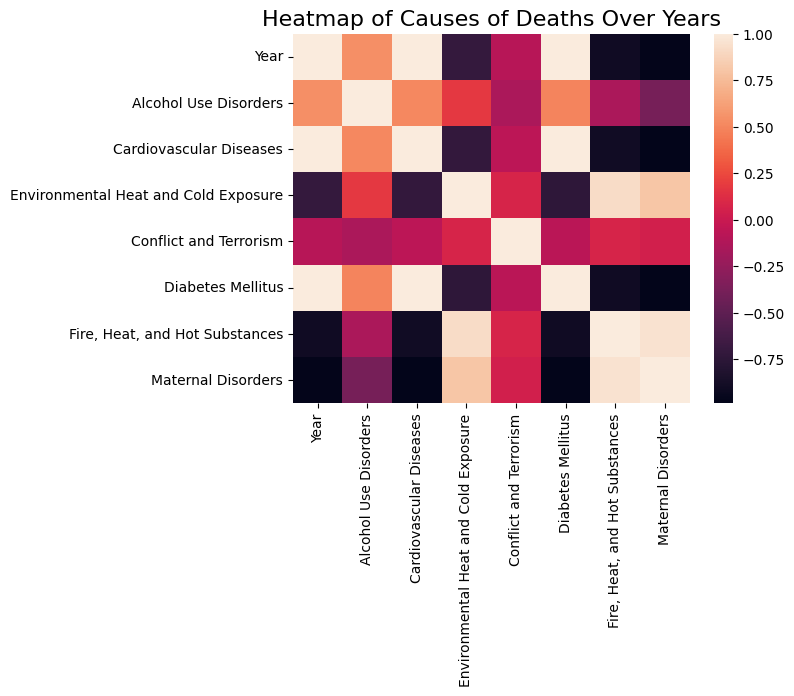
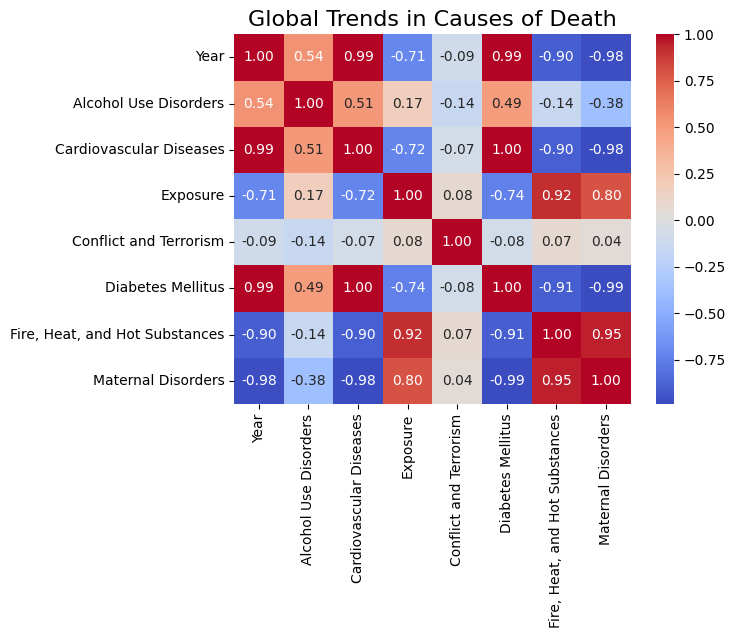
Update graphs for consistency

diff --git a/analyses/egg_demoindex.py b/analyses/egg_demoindex.py
@@ -1,6 +1,8 @@
 import pandas as pd
 import matplotlib.pyplot as plt
 from datetime import datetime
+import matplotlib.ticker as ticker
+
 
 print("Running pandas version", pd.__version__)
 print(datetime.now())
@@ -40,20 +42,28 @@ print(eggs_dem.head())
 fig, ax1 = plt.subplots()
 
 # Plot 'price' on the primary y-axis
-ax1.plot(eggs_dem['year'], eggs_dem['price'], color='blue', marker='o', label='Price')
-ax1.set_xlabel('Year')
-ax1.set_ylabel('Price', color='blue')
-ax1.tick_params(axis='y', labelcolor='blue')
+ax1.plot(eggs_dem['year'], eggs_dem['price'], color='blue', marker='o', label='Price (USD)')
+ax1.set_xlabel('Time (years)')
+ax1.set_ylabel('Egg Price (USD)', color='black')
+ax1.tick_params(axis='y', labelcolor='black')
 
 # Create a twin y-axis for 'Democracy score'
 ax2 = ax1.twinx()
-ax2.plot(eggs_dem['year'], eggs_dem['score'], color='green', marker='x', label='Democracy Score')
-ax2.set_ylabel('Score', color='green')
-ax2.tick_params(axis='y', labelcolor='green')
+ax2.plot(eggs_dem['year'], eggs_dem['score'], color='orange', marker='x', label='Democracy Index')
+ax2.set_ylabel('Democracy Index', color='black')
+ax2.tick_params(axis='y', labelcolor='black')
 
 # Add a title and layout adjustment
-plt.title('Price and Democracy Score by Year')
+plt.title('Egg Price vs Democracy Index (US) over Time')
 fig.tight_layout()  # Adjust layout to prevent overlap
+
+lines1, labels1 = ax1.get_legend_handles_labels()
+lines2, labels2 = ax2.get_legend_handles_labels()
+plt.legend(lines1 + lines2, labels1 + labels2, loc='upper left')
+
+ax1.xaxis.set_major_locator(ticker.MaxNLocator(integer=True))
+
+
 plt.savefig("./graphs/eggPrice_demoindex.png")
 
 print(eggs_dem.corr())

diff --git a/analyses/maternal_diabetes_alcohol_cardio.py b/analyses/maternal_diabetes_alcohol_cardio.py
@@ -23,6 +23,10 @@ cardio_normalized = scaler.fit_transform(cardio.values.reshape(-1, 1)).flatten()
 diabetes_normalized = scaler.fit_transform(diabetes.values.reshape(-1, 1)).flatten()
 maternal_normalized = scaler.fit_transform(maternal.values.reshape(-1, 1)).flatten()
 
+print(alcohol_normalized[:10])
+
+
+
 
 plt.scatter(years, alcohol_normalized, label="alcohol related deaths")
 plt.scatter(years, cardio_normalized, label="cardiovascular disease deaths")
@@ -31,8 +35,11 @@ plt.legend()
 plt.savefig('graphs/alcohol_cardio_year.png')
 plt.clf()
 
-plt.scatter(years, maternal_normalized, label="maternal deaths")
-plt.scatter(years, diabetes_normalized, label="diabetes deaths")
+plt.plot(years, maternal_normalized, label="maternal deaths", color='blue', marker='o')
+plt.plot(years, diabetes_normalized, label="diabetes dea_ths", color='orange', marker='x')
+plt.title("Deaths by Diabetes and Maternal Disorders over Time - Normalized")
+plt.xlabel("Time (years)")
+plt.ylabel("Scaled Deaths")
 plt.legend()
 plt.savefig('graphs/maternal_diabetes_year.png')
 plt.clf()
@@ -41,8 +48,9 @@ plt.scatter(maternal_normalized, diabetes_normalized)
 plt.savefig('graphs/maternal_diabetes.png')
 plt.clf()
 
-sns.heatmap(df.corr())
-plt.title("Heatmap of Causes of Deaths Over Years", fontsize=16)
+df = df.rename(columns={'Environmental Heat and Cold Exposure': 'Exposure'})
+sns.heatmap(df.corr(), annot=True, fmt='0.2f', cmap='coolwarm')
+plt.title("Global Trends in Causes of Death", fontsize=16)
 plt.savefig('graphs/cause_of_death_heatmap.png', bbox_inches='tight')
 plt.clf()
 

diff --git a/analyses/alcohol_schooling.py b/analyses/alcohol_schooling.py
@@ -23,6 +23,8 @@ coeffs_schooling = np.polyfit(log_gdp, df['Schooling'], 2)
 best_fit_alcohol = np.polyval(coeffs_alcohol, log_gdp)
 best_fit_schooling = np.polyval(coeffs_schooling, log_gdp)
 
+print(df[['GDP_per_capita', 'Schooling', 'Alcohol_consumption']].corr())
+
 
 # Alcohol consumption vs schooling
 plt.scatter(df['GDP_per_capita'], df['Alcohol_consumption'], color='blue', label="Alcohol Comsumption", alpha=0.5)
@@ -32,7 +34,7 @@ plt.plot(df['GDP_per_capita'], best_fit_schooling, color='orange', linestyle='da
 
 plt.xscale('log')
 plt.xlabel('GDP per capita')
-
+plt.ylabel('Score')
 plt.title('Schooling vs Alcohol Consumption over GDP per Capita')
 
 plt.legend()
@@ -41,7 +43,7 @@ plt.savefig('graphs/alcohol_schooling_gdp_scatter.png', bbox_inches='tight')
 plt.clf()
 
 plt.scatter(df['Alcohol_consumption'], df['Schooling'])
-plt.title('Alcohol consumption vs Schooling')
+plt.title('Alcohol consumption vs Schooling over Time')
 plt.xlabel('Alcohol Consumption')
 plt.ylabel('Schooling')
 plt.savefig('graphs/alcohol_schooling_scatter.png', bbox_inches='tight')

diff --git a/analyses/pfizer_demindex.py b/analyses/pfizer_demindex.py
@@ -33,12 +33,22 @@ df = pd.merge(dem_usa, merged_df, how='inner', on='year')
 df['year'] = df['year'].dt.start_time
 print(df)
 
-plt.figure(figsize=(10, 6))
-plt.plot(df['year'], df['score'], color='orange', label="Democracy Index")
-plt.plot(df['year'], df['Normalized'], color='blue', label="Normalized Pfizer Stock Price")
+print(df.corr())
 
-plt.xlabel('Year')
-plt.ylabel('Index Value')
+fix, ax1 = plt.subplots()
+
+# plt.figure(figsize=(10, 6))
+ax1.plot(df['year'], df['score'], color='orange', label="Democracy Index", marker='x')
+ax1.set_xlabel('Time (years)')
+ax1.set_ylabel('Democracy Index', color='black')
+
+ax2 = ax1.twinx()
+ax2.plot(df['year'], df['Normalized'], color='blue', label="Normalized Pfizer Stock Price", marker='o')
+ax2.set_ylabel('Normalized Stock Price', color='black')
+
+lines1, labels1 = ax1.get_legend_handles_labels()
+lines2, labels2 = ax2.get_legend_handles_labels()
+plt.legend(lines1 + lines2, labels1 + labels2, loc='upper left')
+
 plt.title('Demoracy Index over Time')
-plt.legend()
 plt.savefig("./graphs/pfizer_demindex.png")
